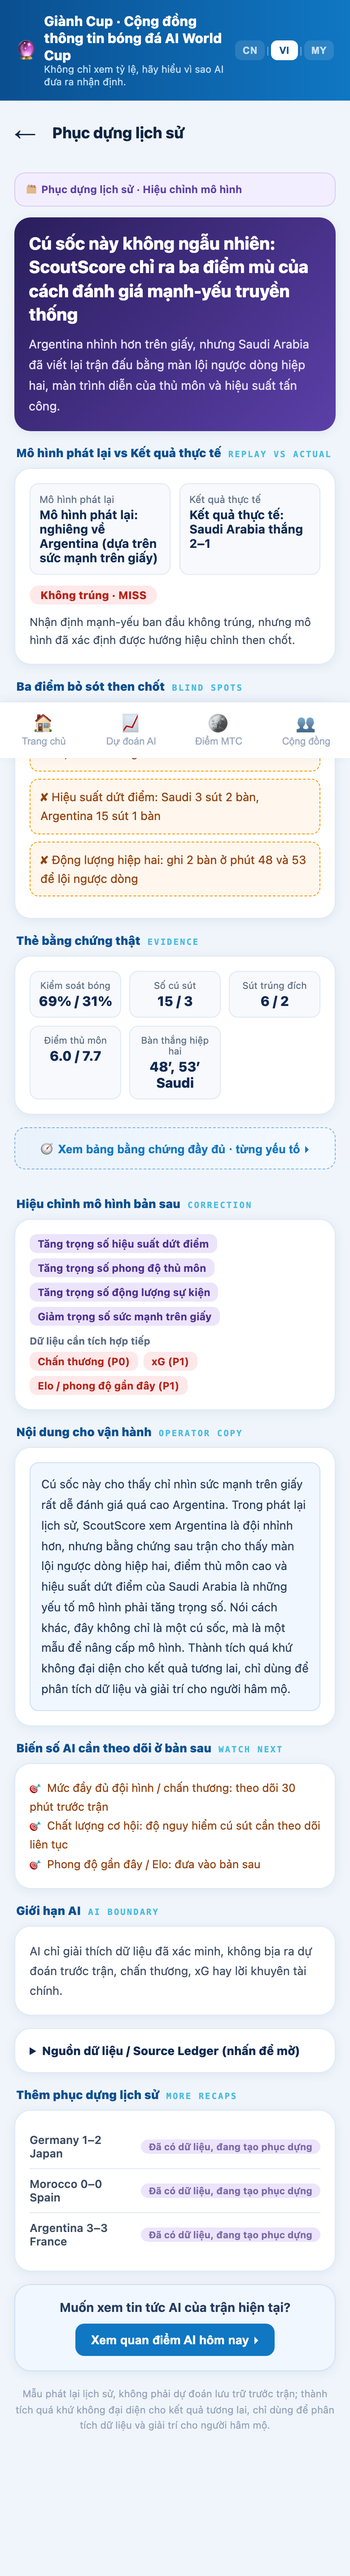
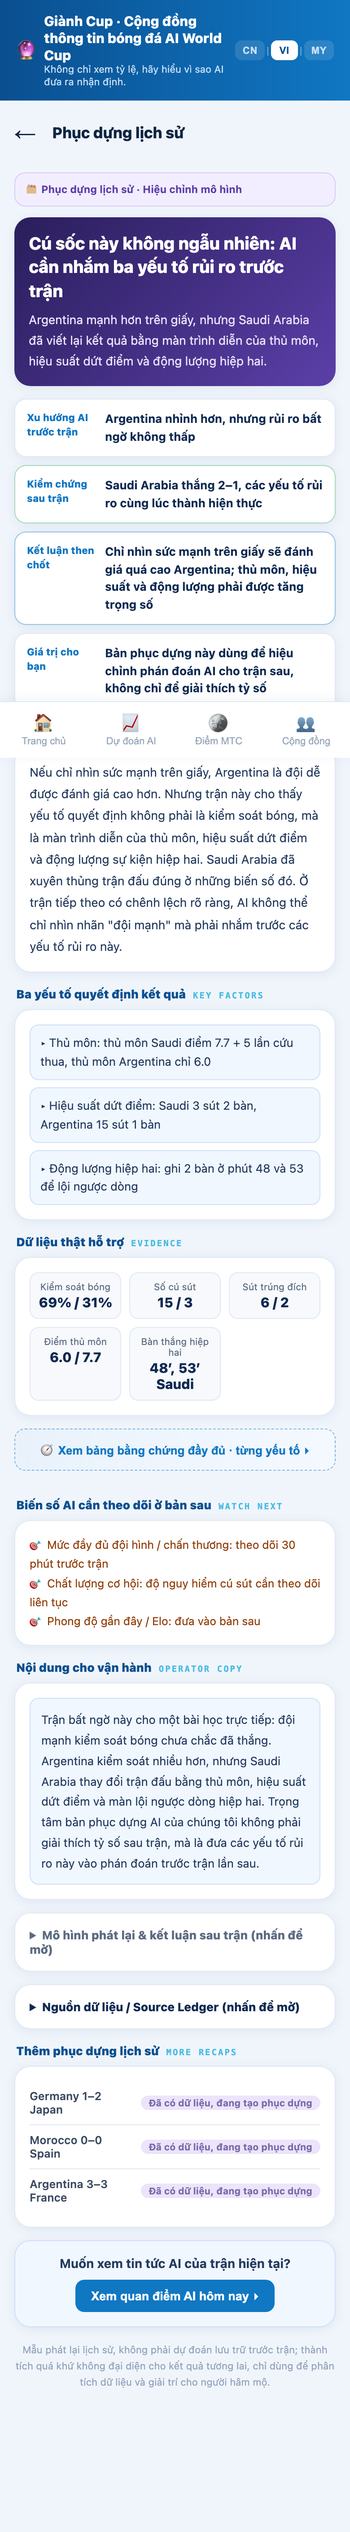
docs(mvp2): record live deploy diagnostic + recap sync
- MVP2_EVIDENCE_BOARD_V2_OPERATOR_REVIEW.md: live-content diagnostic (deploy was
  current, /recap not reworked, no SPA fallback -> verdict LIVE FAIL — RECAP NOT
  UPDATED) and the recap-sync + SPA-fallback fix. Operator must still set the
  Render dashboard rewrite rule and verify live (deep links currently 404).
- Refresh recap_855737_{zh,vi}_product_voice.png to the reworked recap.
- MVP_STATUS.md / CLAUDE.md state updated.

Docs + QA evidence only. Operation paused, public_ready=false, PR #3 Draft.

diff --git a/docs/MVP2_EVIDENCE_BOARD_V2_OPERATOR_REVIEW.md b/docs/MVP2_EVIDENCE_BOARD_V2_OPERATOR_REVIEW.md
@@ -57,6 +57,34 @@ Apply the checklist below to the product-voice surface and record the verdict in
 
 ---
 
+## ★ Live deploy diagnostic + recap sync (2026-06-10)
+**Owner finding:** live `/recap/855737` still showed old copy despite a "latest commit" deploy.
+
+**Diagnosis (live content, not dashboard):**
+- The live JS bundle (`index-DerwFNIT.js`) **contained** the Product Voice code (new evidence title, next-variables,
+  recap data-gap reframe). **Deploy was current — NOT stale.** CSS hash matched local exactly; the JS hash differed
+  only due to Render build-env minification, content identical.
+- **Root cause:** Product Voice had landed on **`/evidence/855737` only**; **`/recap/855737` main view was never
+  reworked** (still ScoutScore / MISS / 模型升级样本). Compounded by **no SPA-fallback rewrite** on the Render
+  static site → hard-loading any deep link returns **404** (the Owner reached /recap via client navigation).
+- **Verdict recorded: LIVE FAIL — RECAP NOT UPDATED** (explicitly *not* a stale deploy).
+
+**Fix (Owner 二次 GO — "Sync recap + SPA fallback"):**
+- **`/recap/855737` reworked to Product Voice** (frontend only): leads with the answer (shares the title / subtitle /
+  4 cards / lead / operator copy with /evidence); "三个关键漏项" → "决定结果的三个因子"; **MISS / 模型回放 / 修正 /
+  AI boundary folded into a collapsed internal block.** Runtime-verified: `missInVisible=false`, `internalExists=true`,
+  body Han=0 (zh + vi), build PASS, no console errors.
+- **`render.yaml`** added with an SPA rewrite (`/* → /index.html`). **Operator action still required** if the live
+  static site is not Blueprint-managed: add the same rule in the Render dashboard (Settings → Redirects/Rewrites:
+  Source `/*`, Destination `/index.html`, Action Rewrite) and redeploy, so deep links stop 404-ing.
+- Screenshots refreshed: `recap_855737_{zh,vi}_product_voice.png`.
+
+**Pending operator live verification** (after the dashboard rewrite is applied + redeploy): hard-load
+`/recap/855737?lang=zh` and `/evidence/855737?lang=zh` → both should render Product Voice (answer-led), no 404,
+MISS only inside the collapsed internal block.
+
+---
+
 ## 0. Owner ruling (2026-06-10) — review only, do NOT develop (superseded by the Product Voice Sprint above)
 冻结(本阶段一律不做):
 ```text

diff --git a/docs/MVP_STATUS.md b/docs/MVP_STATUS.md
@@ -19,6 +19,10 @@ Evidence Board v2 impl:  /evidence/855737 (zh/vi, vi Han=0), bundled, additive, 
                         source-required / assumption up top); 3 decisive factors expanded + 3 folded; data gaps ->
                         "下一版需补强的变量"; MISS / AI-boundary / ledger in a collapsed internal block; operator
                         copy de-charged (no 稳赢). Build PASS. Engineering PASS; prior copy FAILED -> reworked.
+Recap sync + SPA fix:    Live diag: deploy was CURRENT (Product Voice in live bundle), but /recap main view was never
+                        reworked (only /evidence was) + no SPA fallback (deep links 404). Owner 二次 GO -> /recap/855737
+                        reworked to Product Voice (answer-led, MISS/replay folded into internal block); render.yaml SPA
+                        rewrite added (operator must also set the Render dashboard rewrite rule). Verdict was LIVE FAIL — RECAP NOT UPDATED.
 Branch:                 feature/mvp2-api-football-ingestion
 PR #3:                  Draft (base main, not ready, not merged) · PR #2 untouched · main untouched
 External operation:     paused · public_ready: false

diff --git a/CLAUDE.md b/CLAUDE.md
@@ -56,6 +56,9 @@ recap entry link; homepage untouched; build PASS; vi Han=0; review PASS WITH ISS
 Evidence Board v2 reworked to CUSTOMER PRODUCT VOICE (2026-06-10): first screen = the answer (title/subtitle/4 cards/
 lead); 3 decisive factors expanded + rest folded; data gaps -> "下一版需补强的变量"; MISS/boundary/ledger in collapsed
 internal block; operator copy de-charged; build PASS; vi Han=0; engineering PASS / prior copy FAIL -> reworked; operator product-voice re-review pending
+Live deploy diagnostic (2026-06-10): live bundle WAS current (Product Voice present) but /recap main view was never reworked
+(only /evidence) + no SPA fallback (deep links 404). Verdict LIVE FAIL — RECAP NOT UPDATED. Owner 二次 GO -> /recap/855737
+synced to Product Voice (answer-led, MISS/replay folded); render.yaml SPA rewrite added (operator must also set Render dashboard rewrite). Frontend + render.yaml only.
 ```
 
 **Core product logic**
